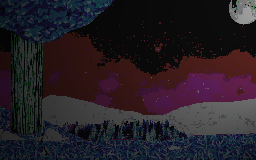
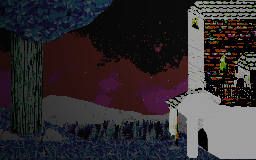
Changes in art and added better functions to the basic anemy AI's

Changed region(s): [[0.625, 0.0, 1.0, 1.0]]

diff --git a/engine.js b/engine.js
@@ -11,23 +11,23 @@
 	let touchControls = document.getElementById("touchControls");
 	
 	// level design
-	createObject(16,16,216,20,"dirtPlatform1", "transparent", "dirtPlatform");
-	createObject(16,16,236,40,"dirtPlatform2", "transparent", "dirtPlatform");
-	createObject(16,16,180,60,"dirtPlatform3", "transparent", "dirtPlatform");
-	createObject(16,16,130,80,"dirtPlatform4", "transparent", "dirtPlatform");
-	createObject(16,16,80,90,"dirtPlatform4", "transparent", "dirtPlatform");
-	createObject(16,16,64,90,"dirtPlatform4", "transparent", "dirtPlatform");
-	createObject(16,16,48,90,"dirtPlatform4", "transparent", "dirtPlatform");
-	createObject(16,16,16,120,"dirtPlatform4", "transparent", "dirtPlatform");
-	createObject(16,16,64,106,"breakableObstacle", "transparent", "brokenDoor");
-	createObject(16,16,100,16,"breakableObstacle2", "transparent", ["groovy", "playing"]);
+	createObject(16,16,130,20,"dirtPlatform1", "transparent", ["dirtPlatform", "playing"]);
+	createObject(13,10,160,45,"dirtPlatform2", "transparent", "nn");
+	createObject(16,10,180,50,"dirtPlatform3", "transparent", "nn");
+	createObject(16,125,196,144,"wall1", "transparent", "nn");
+	createObject(16,16,114,80,"dirtPlatform4", "transparent", ["dirtPlatform", "playing"]);
+	createObject(16,16,80,90,"dirtPlatform4", "transparent", ["dirtPlatform", "playing"]);
+	createObject(16,16,64,90,"dirtPlatform4", "transparent", ["dirtPlatform", "playing"]);
+	createObject(16,16,48,90,"dirtPlatform4", "transparent", ["dirtPlatform", "playing"]);
+	createObject(16,16,16,120,"dirtPlatform4", "transparent", ["dirtPlatform", "playing"]);
+	createObject(16,16,196,16,"breakableObstacle", "transparent", "brokenDoor");
 	
 	//enemies and npcs
-	createObject(16,16,130,64,"enemyBasic3", "transparent", ["enemy", "bloodbutterfly", "playing"]);
-	createObject(16,16,130,14,"enemyBasic2", "transparent", ["enemy", "slug", "playing"]);
-	createObject(16,16,130,140,"enemyBasic2.0", "transparent", ["enemy", "slug", "playing", "rotated180"]);
-	createObject(16,16,241,140,"enemyVBasic2", "transparent", ["enemy", "slug", "playing", "rotated270"]);
-	createObject(16,16,130,96,"enemyBasic1", "transparent", ["enemy", "wallEye", "playing"]);
+	createObject(16,16,130,64,"enemyBasic3", "transparent", ["enemy", "bloodbutterfly", "playing", "minRange0", "maxRange160"]);
+	createObject(16,16,130,14,"enemyBasic2", "transparent", ["enemy", "slug", "playing", "minRange50", "maxRange200"]);
+	createObject(16,16,130,140,"enemyBasic2.0", "transparent", ["enemy", "bloodbutterfly", "playing"]);
+	createObject(16,16,187,140,"enemyVBasic2", "transparent", ["enemy", "centipede", "playing", "rotated270", "minRange20", "maxRange60"]);
+	createObject(16,16,114,96,"enemyBasic1", "transparent", ["enemy", "wallEye", "playing"]);
 	
 	
 	var availableSounds = {
@@ -419,6 +419,11 @@
 					let enemy = document.getElementById(id);
 					let enemyBasicRange = parseInt(enemy.id.split("enemyBasic").join(""), 10);
 					if(enemyBasicRange <= 1) return;
+					let maxRange = Array.from(enemy.classList).filter(word => word.includes("maxRange"));
+					maxRange = (maxRange == undefined || maxRange.length < 1) ? [(foldWidth + "")] : [maxRange[0].split("maxRange").join("")];
+					let minRange = Array.from(enemy.classList).filter(word => word.includes("minRange"));
+					minRange = (minRange == undefined || minRange.length < 1) ? ["0"] : [minRange[0].split("minRange").join("")];
+					let fWidth = foldWidth;
 					let leftMargin = parseFloat(enemy.style.left.split("px").join(""),10);
 					let objWidth = parseFloat(enemy.style.width.split("px").join(""),10);
 					let movementAmount = getRandomInt(enemyBasicRange);
@@ -426,8 +431,8 @@
 					let isNegative = wasNegative;
 					let deadZoneStart = 10;
 					let deadZoneEnd = 90;
-					let chanceToBeChange = (leftMargin + objWidth)/foldWidth * 100;
-					if(chanceToBeChange > deadZoneStart && chanceToBeChange < deadZoneEnd){
+					let chanceToBeChange = (leftMargin + objWidth)/fWidth * 100;
+					if((chanceToBeChange > deadZoneStart && chanceToBeChange < deadZoneEnd)){
 						if(wasNegative){
 							isNegative = true;
 						}else{
@@ -437,11 +442,16 @@
 						isNegative = (getRandomInt(101) < chanceToBeChange);
 					}
 					if(isNegative != wasNegative){ enemy.classList.toggle("wasNegative"); }
+					
+					if(leftMargin + objWidth > parseFloat(maxRange[0], 10)){ enemy.classList.remove("wasNegative"); isNegative = true; enemy.classList.add("wasNegative");}
+					
+					if(leftMargin < parseFloat(minRange[0], 10)){ enemy.classList.remove("wasNegative"); isNegative = false; }
+					
 					if(!isNegative) flipObj(enemy.id);
 					else unflipObj(enemy.id);
 					leftMargin +=  movementAmount * ((isNegative) ? -1 : 1); 
 					if(leftMargin < 0) enemy.style.left = 0;
-					if(leftMargin + objWidth > foldWidth) leftMargin = foldWidth - objWidth;
+					if(leftMargin + objWidth > fWidth) leftMargin = fWidth - objWidth;
 					
 					enemy.style.left = leftMargin + "px";
 	}
@@ -450,6 +460,11 @@
 					let enemy = document.getElementById(id);
 					let enemyBasicRange = parseInt(enemy.id.split("enemyVBasic").join(""), 10);
 					if(enemyBasicRange <= 1) return;
+					let maxRange = Array.from(enemy.classList).filter(word => word.includes("maxRange"));
+					maxRange = (maxRange == undefined || maxRange.length < 1) ? [(foldWidth + "")] : [maxRange[0].split("maxRange").join("")];
+					let minRange = Array.from(enemy.classList).filter(word => word.includes("minRange"));
+					minRange = (minRange == undefined || minRange.length < 1) ? ["0"] : [minRange[0].split("minRange").join("")];
+					let fHeight = foldHeight;
 					let topMargin = parseFloat(enemy.style.top.split("px").join(""),10);
 					let objHeight = parseFloat(enemy.style.height.split("px").join(""),10);
 					let movementAmount = getRandomInt(enemyBasicRange);
@@ -457,8 +472,8 @@
 					let isNegative = wasNegative;
 					let deadZoneStart = 10;
 					let deadZoneEnd = 90;
-					let chanceToBeChange = (topMargin + objHeight)/foldHeight * 100;
-					if(chanceToBeChange > deadZoneStart && chanceToBeChange < deadZoneEnd){
+					let chanceToBeChange = (topMargin + objHeight)/fHeight * 100;
+					if((chanceToBeChange > deadZoneStart && chanceToBeChange < deadZoneEnd) || topMargin < parseFloat(minRange[0], 10) || topMargin > parseFloat(maxRange[0],10)){
 						if(wasNegative){
 							isNegative = true;
 						}else{
@@ -468,11 +483,16 @@
 						isNegative = (getRandomInt(101) < chanceToBeChange);
 					}
 					if(isNegative != wasNegative){ enemy.classList.toggle("wasNegative"); }
+					
+					if(topMargin < parseFloat(minRange[0], 10)){enemy.classList.remove("wasNegative"); isNegative = false;}
+					
+					if(topMargin > parseFloat(maxRange[0], 10)){enemy.classList.remove("wasNegative"); isNegative = true; enemy.classList.add("wasNegative");  }
+					
 					if(!isNegative) flipObj(enemy.id);
 					else unflipObj(enemy.id);
 					topMargin +=  movementAmount * ((isNegative) ? -1 : 1); 
 					if(topMargin < 0) enemy.style.top = 0;
-					if(topMargin + objHeight > foldHeight) topMargin = foldHeight - objHeight;
+					if(topMargin + objHeight > fHeight) topMargin = fHeight - objHeight;
 					
 					enemy.style.top = topMargin + "px";
 	}
@@ -628,9 +648,19 @@
 						PlayerHeight + plyrY > objY
 					  ){
 						
-						 
+						 var hasColidedWall = false; 
+						
+						
+						if(plyrX+(PlayerWidth/2) >= objX + (objW/2)){
+							if(objects[i].id.includes("wall")){  LeftValue = objX + objW; hasColidedWall = true; }
+							LeftValue += 1;
+						}else{
+							if(objects[i].id.includes("wall")){  LeftValue = objX - PlayerWidth; hasColidedWall = true; }
+							LeftValue -= 1;
+						}
+						
 						if(plyrY - (PlayerHeight) >= objY){
-							//TopValue += 1;
+							if(objects[i].id.includes("wall") && !hasColidedWall ){  TopValue = objY + objH; playerVerticalSpeed = 0;  }
 						}else{
 							//TopValue -= 1;
 							if(isGrounded == false){
@@ -639,12 +669,6 @@
 								continue;
 							}
 							
-						}
-						
-						if(plyrX+(PlayerWidth/2) >= objX + (objW/2)){
-							LeftValue += 1;
-						}else{
-							LeftValue -= 1;
 						}
 					    
 						player.style.top = TopValue+"px";

diff --git a/engine.css b/engine.css
@@ -13,6 +13,33 @@ html{
 	.dirtPlatform{
 		background-image: url('Assets/DirtPlatform.png');
 	}
+	.dirtPlatform.playing{
+		-webkit-animation-name: platformAnimation;
+	    -webkit-animation-duration: 6s;
+	    -webkit-animation-iteration-count: infinite;
+	    -webkit-animation-direction: normal;
+	    -webkit-animation-timing-function: linear;
+	}
+	@-webkit-keyframes platformAnimation {
+	  0% {
+		margin-top:0px;
+	  }
+	  32% {
+		margin-top:1px;
+	  }
+	  33% {
+		margin-top:2px;
+	  }
+	  66% {
+		margin-top:1px;
+	  }
+	  67% {
+		margin-top:1px;
+	  }
+	  100% {
+		margin-top:0px;
+	  }
+	}
 	#fold{
 		user-select: none;
         -moz-user-select: none;
@@ -382,6 +409,7 @@ html{
 	}
 	
 	.brokenDoor{
+		paddin-top: 4px;
 		background-image: url('Assets/brokenDoor.png');
 	}
 	
@@ -407,8 +435,17 @@ html{
 	    image-rendering: pixelated;
 		background-image: url('Assets/shadowMask.png');
 		background-repeat: no-repeat;
-		opacity: 0.6;
+		opacity: 0.35;
 		z-index:999;
+		height:100%;
+		width:100%;
+		position:absolute;
+	}
+	#overlayMansion{
+	    image-rendering: pixelated;
+		background-image: url('Assets/mansionOverlay.png');
+		background-repeat: no-repeat;
+		z-index:998;
 		height:100%;
 		width:100%;
 		position:absolute;

diff --git a/engine.html b/engine.html
@@ -9,6 +9,8 @@
 <div id="fold">
 <div id="overlay">
 </div>
+<div id="overlayMansion">
+</div>
 <div style="display:none;" id="boxMessage">
 	<div id="boxTitle"></div>
 	<div id="boxText"></div>
